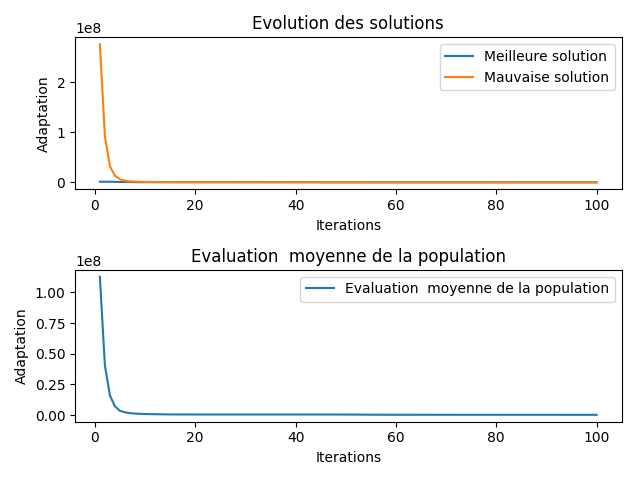
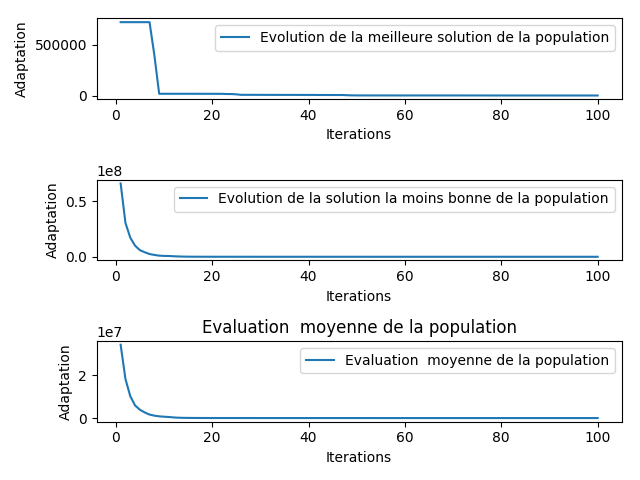
Graphic implementation

diff --git a/main.py b/main.py
@@ -1,14 +1,17 @@
 # coding: utf-8
 from Algorithm import *
 from classic_algo import *
+from classic_algo_2 import *
 from Optimizer import *
 import numpy as np
+import matplotlib
 import matplotlib.pyplot as plt
 from Simulator import *
 import json
 
 algorithm = Algorithm()
 algorithm = classic_algo()
+algorithm = classic_algo_2()
 
 dataset_file = "dataset.json"
 
@@ -16,7 +19,7 @@ dataset =  open(dataset_file,'r')
 dataset = json.loads(dataset.read())
 
 optimizer = Optimizer(algorithm,dataset_file)
-result, metrics =  optimizer.optimize(100,1000,40)
+result, metrics =  optimizer.optimize(100,100,60)
 #result, metrics =  optimizer.optimize(10,10,5)
 
 #Performances
@@ -54,6 +57,8 @@ dataset_e =[]
 
 i = 0
 itab= []
+
+bar_width = 0.35
 for item in dataset:
     itab.append(i)
 
@@ -74,30 +79,31 @@ for item in dataset:
 
     i +=1
 
-
+width = 0.27  
 fig, axs = plt.subplots(3, 2)
 axs[0,0].plot(start_x, start_y, dataset_x, dataset_y, label="Trajectoires")
 axs[0,0].set_ylabel("position sur a l'ordonnee")
 axs[0,0].set_xlabel("position sur a l'abscisse")
 axs[0,0].set_title("Trajectoires")
 axs[0,0].legend(['Solution au demarrage','Jeux de donnees'])
-axs[0,1].bar(itab, start_e, 0.35, label="Energie")
-axs[0,1].bar(itab, dataset_e, 0.35, label="Energie")
-axs[0,1].set_ylabel("valeur de E")
+axs[0,1].bar(itab, start_e, bar_width,   label="Energie")
+axs[0,1].bar(itab, dataset_e, bar_width, label="Energie")
+axs[0,1].set_ylabel("valeur de e")
 axs[0,1].set_xlabel("temps")
-axs[0,1].set_title("Variable e (Energie)")
+axs[0,1].set_title("Variable e")
 axs[0,1].legend(['Solution au demarrage','Jeux de donnees'])
+
 
 axs[1,0].plot(midle_x, midle_y, dataset_x, dataset_y, label="Trajectoires")
 axs[1,0].set_ylabel("position sur a l'ordonnee")
 axs[1,0].set_xlabel("position sur a l'abscisse")
 axs[1,0].set_title("Trajectoires")
 axs[1,0].legend(['Solution au demarrage','Jeux de donnees'])
-axs[1,1].bar(itab, midle_e, 0.35, label="Energie")
-axs[1,1].bar(itab, dataset_e, 0.35, label="Energie")
-axs[1,1].set_ylabel("valeur de E")
+axs[1,1].bar(itab, midle_e, bar_width, label="Energie")
+axs[1,1].bar(itab, dataset_e, bar_width, label="Energie")
+axs[1,1].set_ylabel("valeur de e")
 axs[1,1].set_xlabel("temps")
-axs[1,1].set_title("Variable e (Energie)")
+axs[1,1].set_title("Variable e")
 axs[1,1].legend(['Solution au demarrage','Jeux de donnees'])
 
 
@@ -106,11 +112,11 @@ axs[2,0].set_ylabel("position sur a l'ordonnee")
 axs[2,0].set_xlabel("position sur a l'abscisse")
 axs[2,0].set_title("Trajectoires")
 axs[2,0].legend(['Solution au demarrage','Jeux de donnees'])
-axs[2,1].bar(itab, solution_e, 0.35, label="Energie")
-axs[2,1].bar(itab, dataset_e, 0.35, label="Energie")
+axs[2,1].bar(itab, solution_e, bar_width, label="Energie")
+axs[2,1].bar(itab, dataset_e, bar_width, label="Energie")
 axs[2,1].set_ylabel("valeur de E")
 axs[2,1].set_xlabel("temps")
-axs[2,1].set_title("Variable e (Energie)")
+axs[2,1].set_title("Variable e")
 axs[2,1].legend(['Solution au demarrage','Jeux de donnees'])
 
 fig.set_size_inches((8.5, 11), forward=False)
@@ -119,18 +125,36 @@ plt.savefig('Data.png', dpi=100)
 
 
 plt.clf()
-fig, axs = plt.subplots(2, 1)
-axs[0].plot(iterations, metrics['best_fitness'], iterations, metrics['worse_fitness'], label="Evolution des solutions dans la population")
+fig, axs = plt.subplots(3, 1)
+axs[0].plot(iterations, metrics['best_fitness'],  label="Evolution de la meilleure solution de la population")
 axs[0].set_xlabel('Iterations')
 axs[0].set_ylabel("Adaptation")
-axs[0].set_title("Evolution des solutions")
-axs[0].legend(['Meilleure solution','Mauvaise solution'])
+axs[0].legend()
 
-axs[1].plot(iterations, metrics['fitness_average'], label="Evaluation  moyenne de la population")
+axs[1].plot(iterations, metrics['worse_fitness'], label="Evolution de la solution la moins bonne de la population")
 axs[1].set_xlabel('Iterations')
 axs[1].set_ylabel("Adaptation")
-axs[1].set_title("Evaluation  moyenne de la population")
 axs[1].legend()
+
+axs[2].plot(iterations, metrics['fitness_average'], label="Evaluation  moyenne de la population")
+axs[2].set_xlabel('Iterations')
+axs[2].set_ylabel("Adaptation")
+axs[2].set_title("Evaluation  moyenne de la population")
+axs[2].legend()
 
 fig.tight_layout()
 plt.savefig('Evolution.png')
+
+plt.clf()
+
+'''
+fig = plt.figure()
+ax = fig.add_subplot(111)
+rects1 = ax.bar(itab, start_e, bar_width,   label="Energie")
+rects2 = ax.bar(itab, dataset_e, bar_width, label="Energie")
+ax.set_ylabel("valeur de e")
+ax.set_xlabel("temps")
+ax.set_title("Variable e")
+ax.legend(['Solution au demarrage','Jeux de donnees'])
+plt.savefig('A.png')
+'''

diff --git a/classic_algo_2.py b/classic_algo_2.py
@@ -1,0 +1,107 @@
+# coding: utf-8
+import networkx as nx
+from Operator.boolOperator import *
+
+class classic_algo_2:
+    def __init__(self):
+        #TO DEFINE
+        self.config_items = ['f','g', 'h']
+        self.program_variables = ['e','t','x','y']
+        #INITIALISATION
+        self.output = []
+        self.graphe = nx.Graph()
+        self.grapheNodes = []
+        self.labeldict = {}
+        self.start = 0
+        self.defineAlgorithm()
+        self.all_variables_value =  {}
+        #OPTIONAL
+        self.default_init()
+
+    def default_init(self):
+        for item in self.config_items:
+            self.all_variables_value[item]=0
+        for item in self.program_variables:
+            self.all_variables_value[item]=0
+
+    def config_init(self, config):
+        for item in config:
+            self.all_variables_value[item]= config[item]
+
+    def addNode(self, nodeId, node, label=None):
+        if label is None:
+            label =  node
+        self.graphe.add_node(nodeId, value=node)
+        self.labeldict[nodeId] = label
+
+    def defineAlgorithm(self):
+        self.addNode(0,"t=0")
+
+        #Repos
+        self.addNode(1,"((t>=0 and t<=6) or (t>=22 and t<=23))")
+        self.addNode(2,"e=e+h")
+        self.addNode(3,"x=-x+e")
+        self.addNode(4,"y=0.06*y+(e/2.0)")
+        self.addNode(5,"logData")
+        self.addNode(6,"t==23")
+        self.addNode(7,"t=t+1")
+        self.addNode(8,"t=0")
+        #Balade
+        self.addNode(9,"((t>=7 and t<=12) or (t>=16 and t<=21))")
+        self.addNode(10,"e=e+f")
+        self.addNode(11,"y= 1.1*y + ((2)*(e))")
+        self.addNode(12,"x=0.1*x+e")
+        self.addNode(13,"logData")
+        self.addNode(14,"t==23")
+        self.addNode(15,"t=t+1")
+        self.addNode(16,"t=0")
+        #Restau
+        self.addNode(17,"t>=13 and t<=15")
+        self.addNode(18,"e=e+g")
+        self.addNode(19,"x=0.9*x+e")
+        self.addNode(20,"y=1.1*y-e")
+        self.addNode(21,"logData")
+        self.addNode(22,"t==23")
+        self.addNode(23,"t=t+1")
+        self.addNode(24,"t=0")
+
+        self.graphe.add_edge(0, 1, r='Pass')
+        self.graphe.add_edge(1, 2, r="True")
+        self.graphe.add_edge(2, 3)
+        self.graphe.add_edge(3, 4)
+        self.graphe.add_edge(4, 5)
+        self.graphe.add_edge(5, 6)
+        self.graphe.add_edge(6, 7, r="False")
+        self.graphe.add_edge(6, 8, r="True")
+
+        self.graphe.add_edge(7, 1, r="Loop")
+        #self.graphe.add_edge(8, 1, r="Loop")
+
+
+        self.graphe.add_edge(1, 9, r="False")
+        self.graphe.add_edge(9, 10, r="True")
+        self.graphe.add_edge(10, 11)
+        self.graphe.add_edge(11, 12)
+        self.graphe.add_edge(12, 13)
+        self.graphe.add_edge(13, 14)
+        self.graphe.add_edge(14, 15, r="False")
+        self.graphe.add_edge(14, 16, r="True")
+
+        self.graphe.add_edge(16, 1, r="Loop")
+        self.graphe.add_edge(15, 1, r="Loop")
+
+
+        self.graphe.add_edge(9, 17, r="False")
+        self.graphe.add_edge(17, 18, r="True")
+        self.graphe.add_edge(18, 19)
+        self.graphe.add_edge(19, 20)
+        self.graphe.add_edge(20, 21)
+        self.graphe.add_edge(21, 22)
+        self.graphe.add_edge(22, 23, r="False")
+        #self.graphe.add_edge(22, 24, r="True")
+
+        self.graphe.add_edge(24, 1, r="Loop")
+        self.graphe.add_edge(23, 1, r="Loop")
+
+
+        self.start = 0

diff --git a/Optimizer.py b/Optimizer.py
@@ -17,6 +17,8 @@ class Optimizer:
             'best_fitness' :  [],
             'fitness_average' :  [],
         }
+        self.max_rand = 100
+        self.mutation_limit = 10
         self.algorithm = algorithm
         dataSet =  open(dataSet,'r')
         self.dataSet = json.loads(dataSet.read())
@@ -32,7 +34,7 @@ class Optimizer:
         for i in range(0, populationSize):
             subject = {}
             for key in self.algorithm.config_items:
-                randomData = random.randint(0,1000)
+                randomData = random.randint(0,self.max_rand)
                 subject[key] =  randomData
             population.append(subject)
         #evaluer la population
@@ -171,15 +173,14 @@ class Optimizer:
 
     def genetic_mutation(self, subject):
         number = random.uniform(0,1)
-        mutation_limit = 100
         subject_keys = subject.keys()
         if number > 0.95:
             mutation_number = random.randint(1,len(subject))
             for i in range(0, mutation_number):
                 number = random.uniform(0,1)
-                value = random.uniform(0,mutation_limit)
+                value = random.uniform(0,self.mutation_limit)
                 if number <= 0.5:
-                    value = -random.uniform(0,mutation_limit)
+                    value = -random.uniform(0,self.mutation_limit)
                 key = subject_keys[random.randint(0,(len(subject)-1))]
                 subject[key] += value 
         return subject

diff --git a/trace.py b/trace.py
@@ -1,0 +1,33 @@
+import numpy as np
+import matplotlib.pyplot as plt
+
+N = 3
+ind = np.arange(N)  # the x locations for the groups
+width = 0.5       # the width of the bars
+print(ind)
+fig = plt.figure()
+ax = fig.add_subplot(111)
+
+yvals = [4, 9, 2]
+rects1 = ax.bar(ind, yvals, width, color='r')
+zvals = [1,2,3]
+rects2 = ax.bar(ind+width, zvals, width, color='g')
+kvals = [11,12,13]
+rects3 = ax.bar(ind+width*2, kvals, width, color='b')
+
+ax.set_ylabel('Scores')
+ax.set_xticks(ind+width)
+ax.set_xticklabels( ('2011-Jan-4', '2011-Jan-5', '2011-Jan-6') )
+ax.legend( (rects1[0], rects2[0], rects3[0]), ('y', 'z', 'k') )
+
+def autolabel(rects):
+    for rect in rects:
+        h = rect.get_height()
+        ax.text(rect.get_x()+rect.get_width()/2., 1.05*h, '%d'%int(h),
+                ha='center', va='bottom')
+
+autolabel(rects1)
+autolabel(rects2)
+autolabel(rects3)
+
+plt.show()

diff --git a/generator.py b/generator.py
@@ -2,11 +2,30 @@
 from Simulator import *
 import json
 from classic_algo import *
+from classic_algo_2 import *
+import numpy as np
+import matplotlib.pyplot as plt
+
+
 simulator = Simulator()
-subject = {'h':500,'g':1024, 'f':135}
-algorithm = classic_algo()
+subject = {'h':15.09,'g':38.084, 'f':-30}
+algorithm = classic_algo_2()
 subject_dataset = simulator.run(deepcopy(algorithm),subject)
 
+start_x =  []
+start_y =  []
+start_e =  []
+
+for item in subject_dataset:
+    start_x.append(item['x'])
+    start_y.append(item['y'])
+    start_e.append(item['e'])
+
+
+fig, axs = plt.subplots()
+axs.plot(start_x, start_y)
+
+plt.show()
 f = open("output/dataset.json", "w")
 f.write(json.dumps(subject_dataset))
 f.close()
